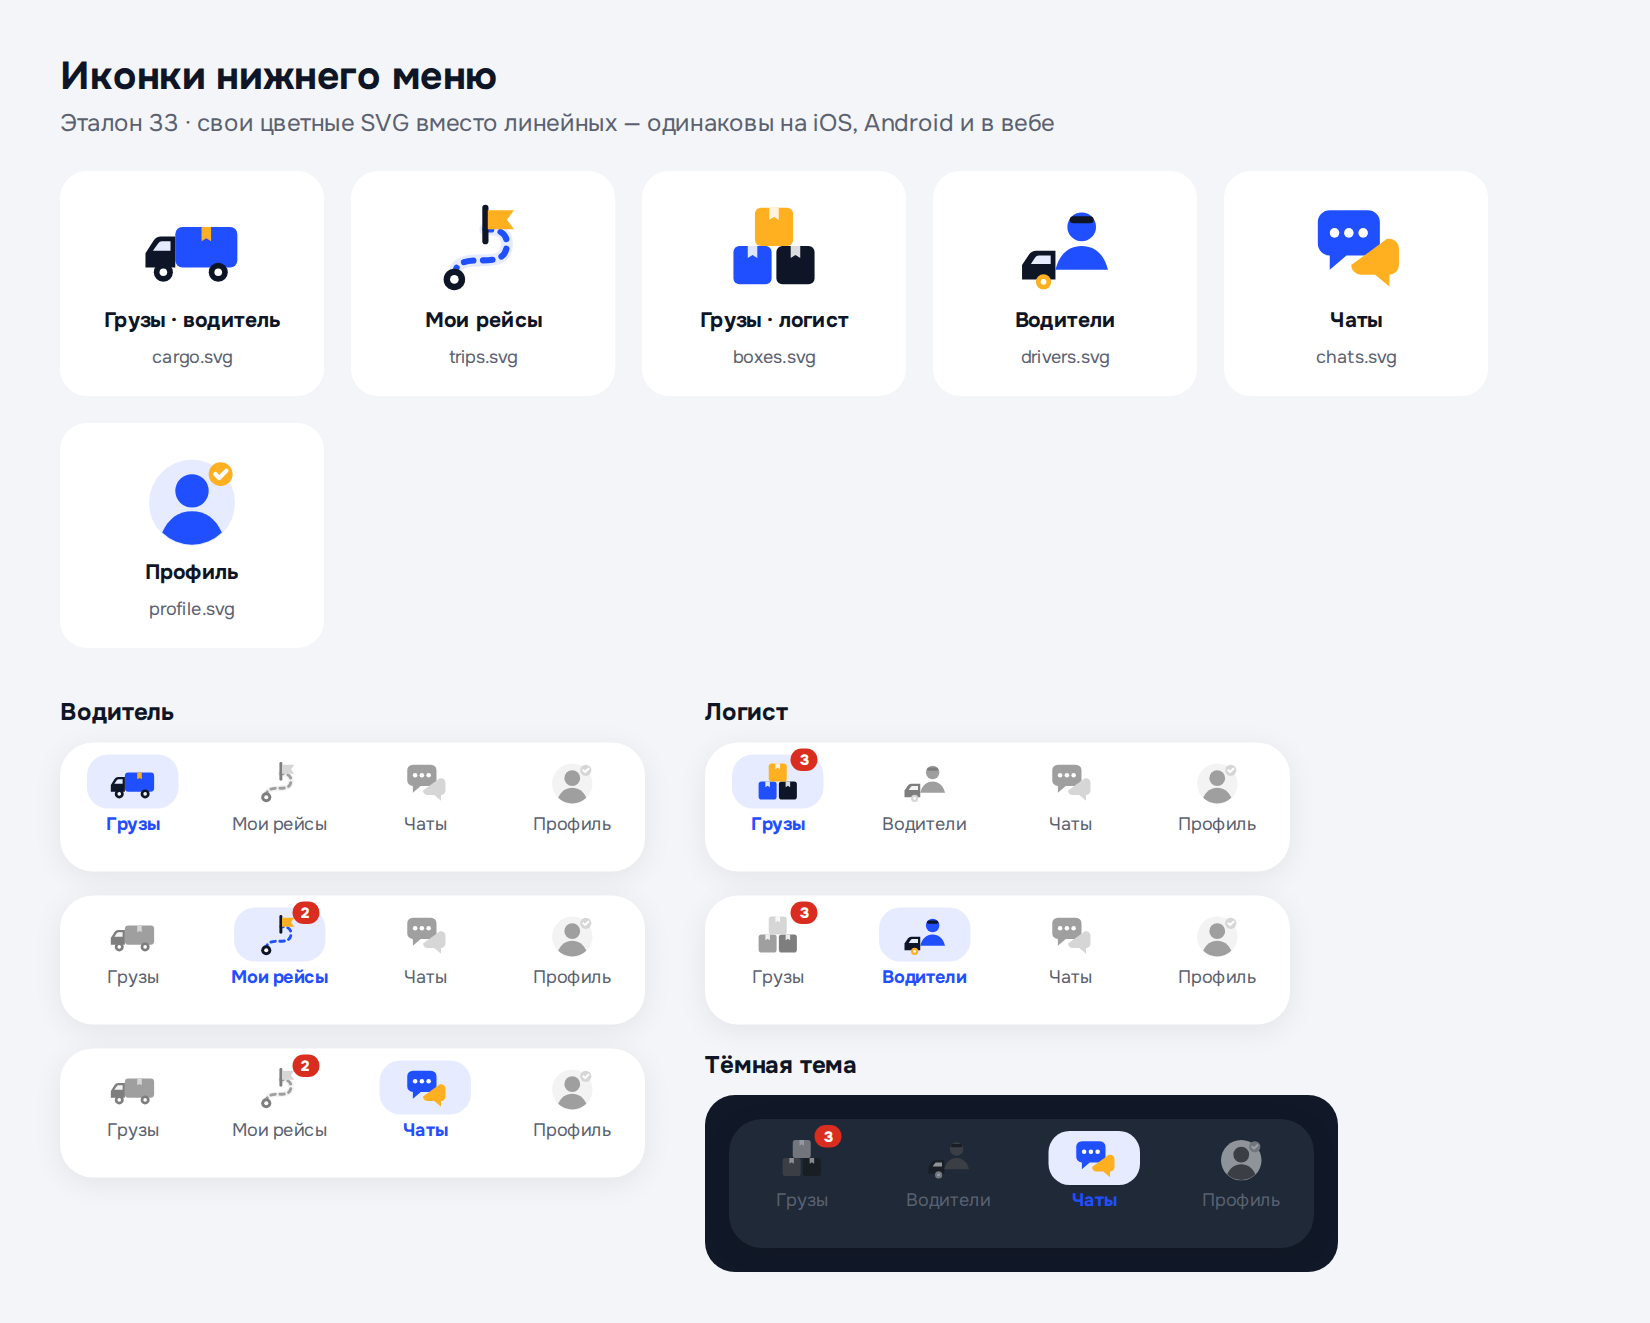
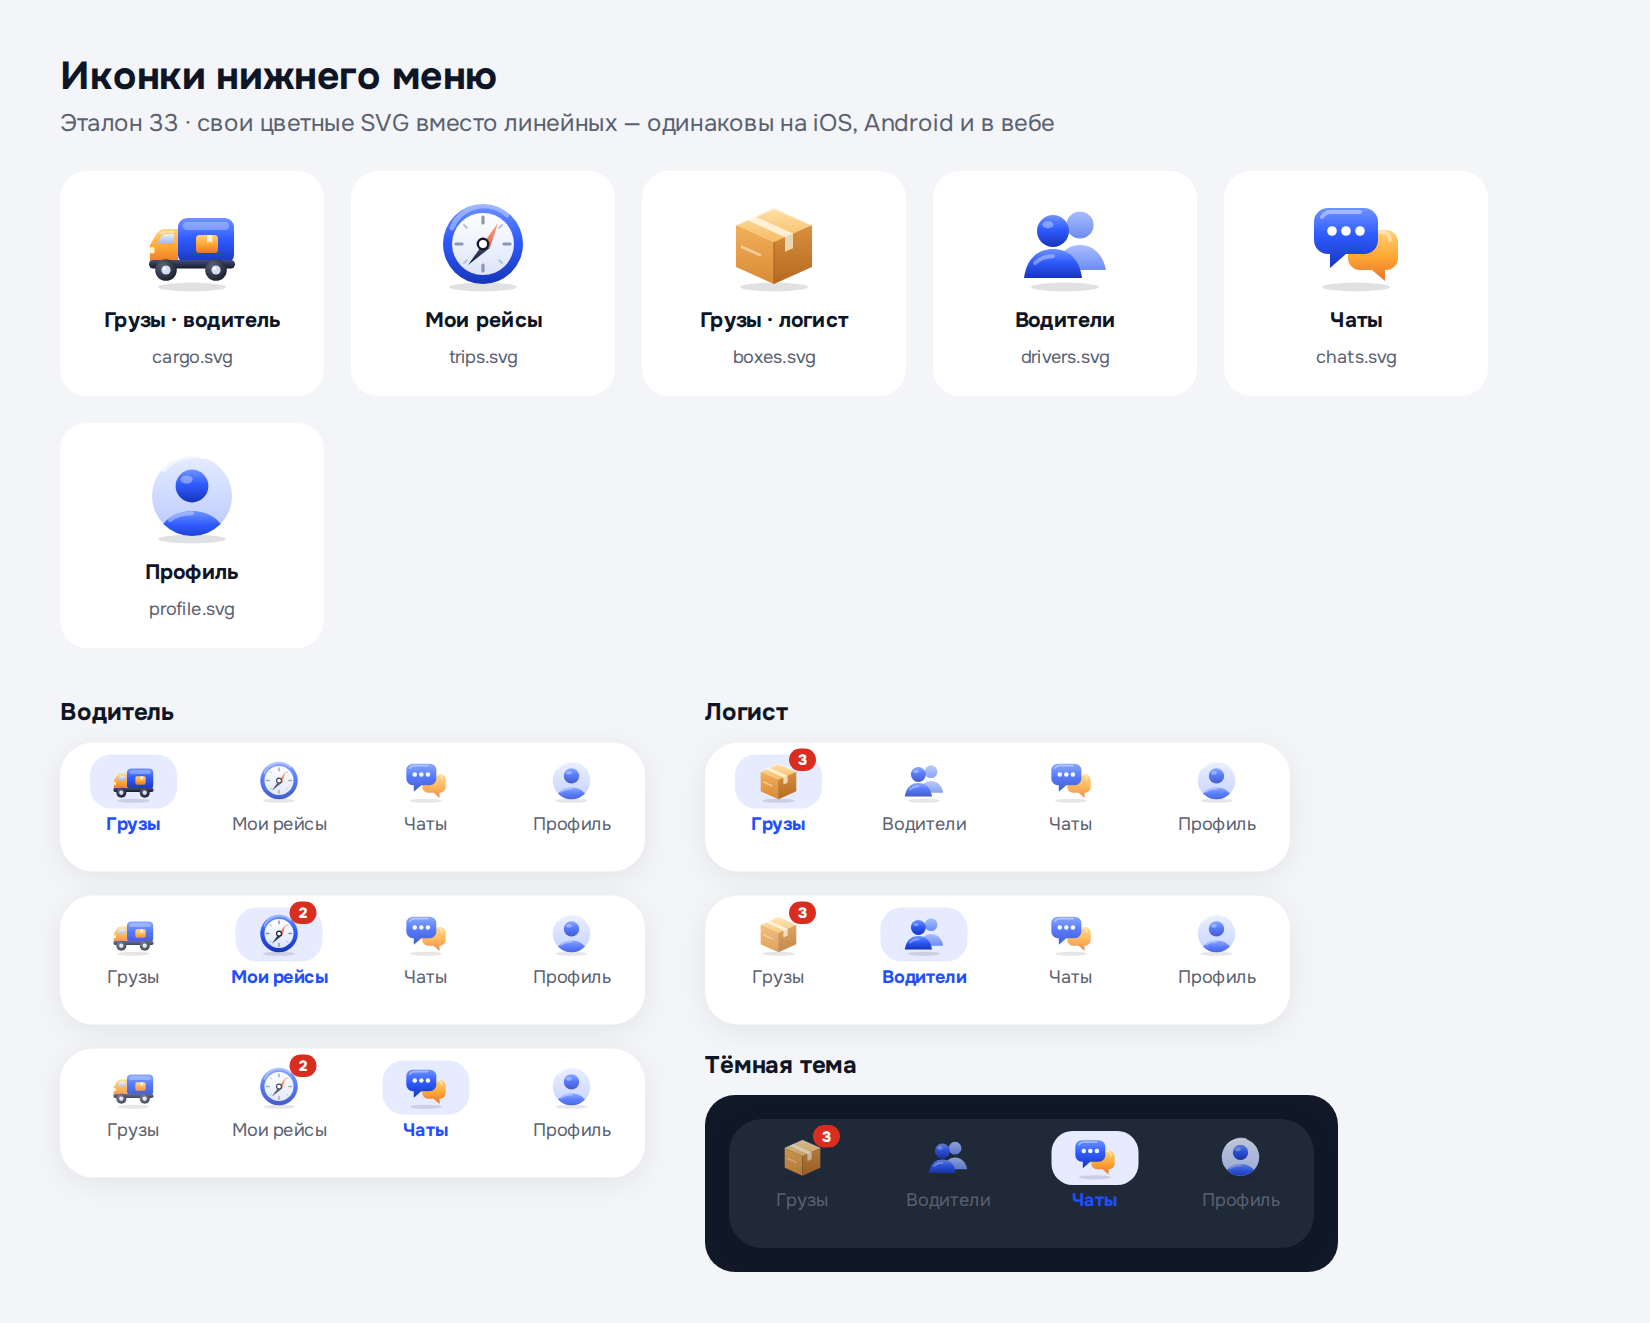
Эталон 33: объёмные цветные иконки нижнего меню (фура, компас, коробка, двое, чаты, профиль)
Claude-Session: https://claude.ai/code/session_01Ff8oopsZvobH79mMVJKnFv

diff --git a/design/brand/nav/README.md b/design/brand/nav/README.md
@@ -1,14 +1,16 @@
 # Иконки нижнего меню (эталон 33)
 
-Свои цветные иконки вместо линейных Lucide — одинаково выглядят на iOS, Android и в вебе (эмодзи в эталоне 32 рисуются по-разному на разных телефонах, поэтому не используем).
+Свои объёмные цветные иконки (градиенты, блик, мягкая тень — в духе эмодзи, которые понравились в эталоне 32) вместо линейных Lucide — одинаково выглядят на iOS, Android и в вебе (эмодзи в эталоне 32 рисуются по-разному на разных телефонах, поэтому не используем).
 
 | Файл | Где |
 |---|---|
-| `cargo.svg` | Водитель — Грузы |
-| `trips.svg` | Водитель — Мои рейсы |
-| `boxes.svg` | Логист — Грузы |
-| `drivers.svg` | Логист — Водители |
+| `cargo.svg` | Водитель — Грузы (фура, кабина слева) |
+| `trips.svg` | Водитель — Мои рейсы (компас) |
+| `boxes.svg` | Логист — Грузы (коробка) |
+| `drivers.svg` | Логист — Водители (двое) |
 | `chats.svg` | Чаты (обе роли) |
 | `profile.svg` | Профиль (обе роли) |
 
-Состояния: **активная** — цветная, как в файле, под иконкой подложка `#E6EBFF`, подпись синяя жирная; **неактивная** — та же иконка в оттенках серого (ColorFiltered / saturation 0, прозрачность 0,55), подпись серая. Размер 28–32 dp. Бейдж-цифра — красный кружок справа сверху.
+Состояния: **активная** — цветная, как в файле, под иконкой подложка `#E6EBFF`, подпись синяя жирная; **неактивная** — та же цветная иконка, прозрачность 0,8, подпись серая (как в эталоне 32 — цветные все, выбранная на подложке). Размер 28–32 dp. Бейдж-цифра — красный кружок справа сверху.
+
+В Flutter — `flutter_svg` (`SvgPicture.asset`), файлы скопировать в `lubao_core/assets/nav/`; градиенты в SVG `flutter_svg` поддерживает. Проверить, что тень-эллипс не обрезается в 48×48.
